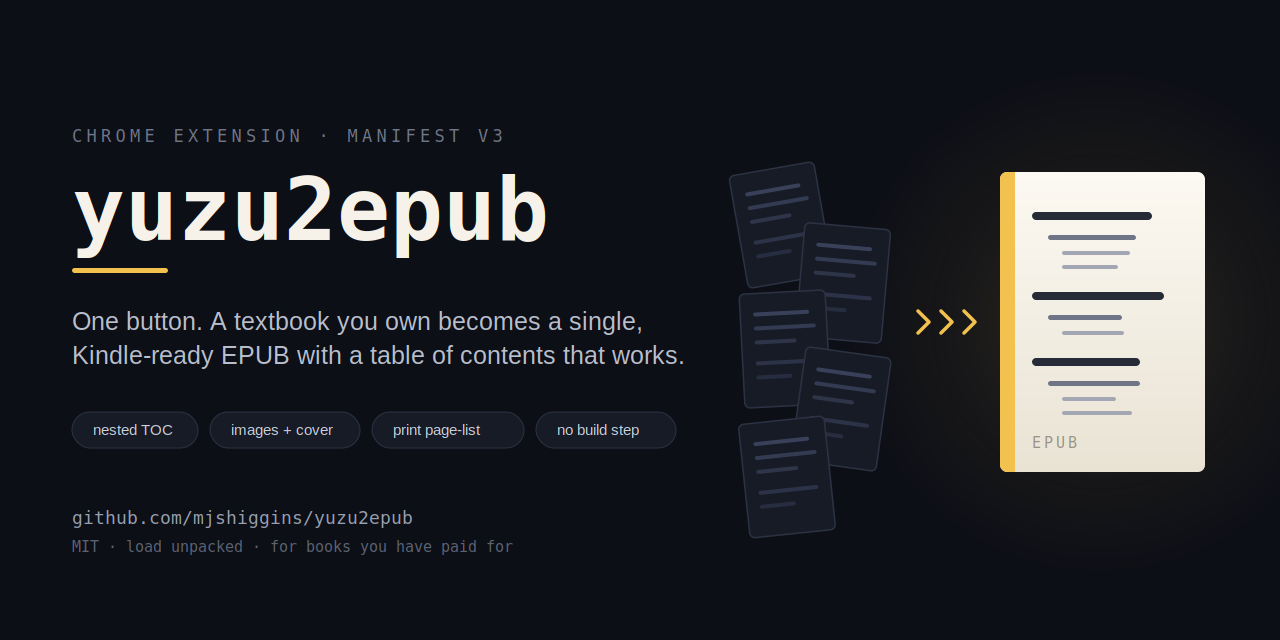
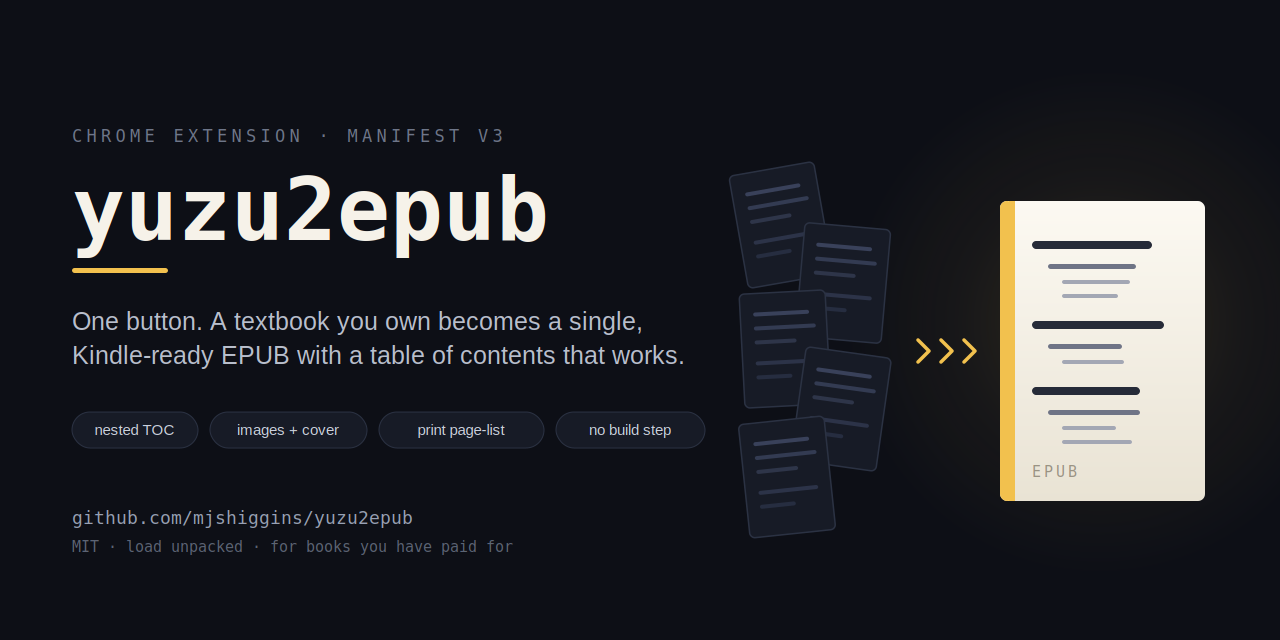
Add social preview and Twitter card; centre the chip labels
Chip text was left-padded at a fixed offset rather than centred, so labels
floated left inside their pills. They now use text-anchor middle against the
pill's own centre, with the pill sized from the label.

Artwork moves into docs/make-header.py so all three layouts share one set of
components instead of drifting apart:

  header.png         1280x640  README banner
  social-preview.png 1280x640  GitHub social preview, bigger type, no chips
  twitter-card.png   1600x900  16:9, the ratio the timeline crops to

The social preview started as a centred stack, which left dead space down
both sides because the graphic is close to square and the canvas is 2:1. It
keeps the two-column composition and drops the detail that disappears at
unfurl size. The Twitter card's text column sat high and left a dead band
along the bottom; it is now vertically balanced against the graphic.

Claude-Session: https://claude.ai/code/session_01FEEVT7bXUhq8pnMSMitG9i

diff --git a/docs/make-header.py b/docs/make-header.py
@@ -1,0 +1,197 @@
+#!/usr/bin/env python3
+"""Generate the project's header artwork.
+
+One set of components, three layouts:
+  header.png         1280x640  README banner, text beside the graphic
+  social-preview.png 1280x640  GitHub social preview, centred and larger type
+  twitter-card.png   1600x900  16:9 for an in-post image
+
+All artwork here is original geometry: scattered source fragments resolving
+into one bound book whose table of contents is visibly nested.
+
+    python3 docs/make-header.py
+"""
+import cairosvg
+
+INK = "#0d0f16"
+PAPER = "#f6f2e9"
+ACCENT = "#f2c14e"
+MUTED = "#6e7689"
+BODY = "#b9bfcd"
+CHIP_BG = "#171b26"
+CHIP_LINE = "#2b3243"
+MONO = "DejaVu Sans Mono, monospace"
+SANS = "Liberation Sans, DejaVu Sans, sans-serif"
+
+# The graphic is drawn in a local 467x366 box, then translated and scaled.
+GW, GH = 467, 366
+
+DEFS = f"""
+  <defs>
+    <radialGradient id="glow" cx="50%" cy="50%" r="50%">
+      <stop offset="0%" stop-color="{ACCENT}" stop-opacity="0.15"/>
+      <stop offset="55%" stop-color="{ACCENT}" stop-opacity="0.05"/>
+      <stop offset="100%" stop-color="{ACCENT}" stop-opacity="0"/>
+    </radialGradient>
+    <linearGradient id="paper" x1="0" y1="0" x2="0" y2="1">
+      <stop offset="0%" stop-color="#fcf9f2"/>
+      <stop offset="100%" stop-color="#e9e3d4"/>
+    </linearGradient>
+    <g id="frag">
+      <rect width="86" height="114" rx="5" fill="{CHIP_BG}" stroke="{CHIP_LINE}" stroke-width="1.5"/>
+      <rect x="13" y="19" width="56" height="4" rx="2" fill="#39415a"/>
+      <rect x="13" y="33" width="62" height="4" rx="2" fill="#333b52"/>
+      <rect x="13" y="47" width="42" height="4" rx="2" fill="#2e3549"/>
+      <rect x="13" y="68" width="60" height="4" rx="2" fill="#2c3348"/>
+      <rect x="13" y="82" width="36" height="4" rx="2" fill="#262d40"/>
+    </g>
+    <g id="chev">
+      <path d="M0,-11 L11,0 L0,11" fill="none" stroke="{ACCENT}" stroke-width="3.5"
+            stroke-linecap="round" stroke-linejoin="round"/>
+    </g>
+  </defs>"""
+
+
+def graphic(tx, ty, scale=1.0):
+    """Fragments, chevrons and the assembled book, in one transformable group."""
+    bx, by = 262, 33          # book origin inside the local box
+    return f"""
+  <g transform="translate({tx},{ty}) scale({scale})">
+    <use href="#frag" transform="translate(0,0) rotate(-10,43,57)"/>
+    <use href="#frag" transform="translate(62,58) rotate(5,43,57)"/>
+    <use href="#frag" transform="translate(4,124) rotate(-3,43,57)"/>
+    <use href="#frag" transform="translate(60,184) rotate(8,43,57)"/>
+    <use href="#frag" transform="translate(6,252) rotate(-6,43,57)"/>
+
+    <g transform="translate(0,183)">
+      <use href="#chev" transform="translate(180,0)" opacity="0.3"/>
+      <use href="#chev" transform="translate(203,0)" opacity="0.62"/>
+      <use href="#chev" transform="translate(226,0)"/>
+    </g>
+
+    <rect x="{bx}" y="{by}" width="205" height="300" rx="7" fill="url(#paper)"/>
+    <rect x="{bx}" y="{by}" width="14" height="300" rx="7" fill="{ACCENT}"/>
+    <rect x="{bx + 9}" y="{by}" width="6" height="300" fill="{ACCENT}"/>
+
+    <rect x="{bx + 32}" y="{by + 40}"  width="120" height="8" rx="4" fill="#262b38"/>
+    <rect x="{bx + 48}" y="{by + 63}"  width="88"  height="5" rx="2.5" fill="#6f7486"/>
+    <rect x="{bx + 62}" y="{by + 79}"  width="68"  height="4" rx="2" fill="#a3a7b4"/>
+    <rect x="{bx + 62}" y="{by + 93}"  width="56"  height="4" rx="2" fill="#a3a7b4"/>
+    <rect x="{bx + 32}" y="{by + 120}" width="132" height="8" rx="4" fill="#262b38"/>
+    <rect x="{bx + 48}" y="{by + 143}" width="74"  height="5" rx="2.5" fill="#6f7486"/>
+    <rect x="{bx + 62}" y="{by + 159}" width="62"  height="4" rx="2" fill="#a3a7b4"/>
+    <rect x="{bx + 32}" y="{by + 186}" width="108" height="8" rx="4" fill="#262b38"/>
+    <rect x="{bx + 48}" y="{by + 209}" width="92"  height="5" rx="2.5" fill="#6f7486"/>
+    <rect x="{bx + 62}" y="{by + 225}" width="54"  height="4" rx="2" fill="#a3a7b4"/>
+    <rect x="{bx + 62}" y="{by + 239}" width="70"  height="4" rx="2" fill="#a3a7b4"/>
+    <text x="{bx + 32}" y="{by + 276}" font-family="{MONO}" font-size="15"
+          letter-spacing="3" fill="#9a9384">EPUB</text>
+  </g>"""
+
+
+def chips(labels, x, y, fs=15, gap=12):
+    """Pill row. Text is centred on each pill rather than left-padded."""
+    out, cx = [], x
+    for label in labels:
+        w = round(len(label) * fs * 0.52) + 48
+        h = round(fs * 2.4)
+        out.append(
+            f'    <rect x="{cx}" y="{y}" width="{w}" height="{h}" rx="{h/2}" '
+            f'fill="{CHIP_BG}" stroke="{CHIP_LINE}"/>\n'
+            f'    <text x="{cx + w/2}" y="{y + h/2}" text-anchor="middle" '
+            f'dominant-baseline="central" font-family="{SANS}" font-size="{fs}" '
+            f'fill="#cbd1dd">{label}</text>'
+        )
+        cx += w + gap
+    return "\n".join(out), cx - gap - x
+
+
+CHIPS = ["nested TOC", "images + cover", "print page-list", "no build step"]
+
+
+def banner(w=1280, h=640):
+    rows, _ = chips(CHIPS, 72, 412)
+    return f"""<svg xmlns="http://www.w3.org/2000/svg" width="{w}" height="{h}" viewBox="0 0 {w} {h}">
+{DEFS}
+  <rect width="{w}" height="{h}" fill="{INK}"/>
+  <circle cx="1100" cy="322" r="255" fill="url(#glow)"/>
+{graphic(738, 168, 1.0)}
+  <text x="72" y="142" font-family="{MONO}" font-size="17" letter-spacing="4.5"
+        fill="{MUTED}">CHROME EXTENSION · MANIFEST V3</text>
+  <text x="72" y="240" font-family="{MONO}" font-size="88" font-weight="bold"
+        fill="{PAPER}">yuzu2epub</text>
+  <rect x="72" y="268" width="96" height="5" rx="2.5" fill="{ACCENT}"/>
+  <text x="72" y="330" font-family="{SANS}" font-size="25" fill="{BODY}">One button. A textbook you own becomes a single,</text>
+  <text x="72" y="364" font-family="{SANS}" font-size="25" fill="{BODY}">Kindle-ready EPUB with a table of contents that works.</text>
+{rows}
+  <text x="72" y="524" font-family="{MONO}" font-size="18" fill="#98a1b4">github.com/mjshiggins/yuzu2epub</text>
+  <text x="72" y="552" font-family="{MONO}" font-size="15" fill="#5c6474">MIT · load unpacked · for books you have paid for</text>
+</svg>"""
+
+
+def social(w=1280, h=640):
+    """GitHub social preview. Shown small in link unfurls, so this drops the
+    detail that disappears at that size and leans on bigger type. Centring the
+    graphic instead left dead space down both sides, so it keeps the two-column
+    composition."""
+    gx, gy = w - 80 - GW, (h - GH) / 2
+    return f"""<svg xmlns="http://www.w3.org/2000/svg" width="{w}" height="{h}" viewBox="0 0 {w} {h}">
+{DEFS}
+  <rect width="{w}" height="{h}" fill="{INK}"/>
+  <circle cx="{gx + GW * 0.72}" cy="{h/2}" r="270" fill="url(#glow)"/>
+{graphic(gx, gy, 1.0)}
+  <text x="80" y="170" font-family="{MONO}" font-size="18" letter-spacing="5"
+        fill="{MUTED}">CHROME EXTENSION · MANIFEST V3</text>
+  <text x="80" y="280" font-family="{MONO}" font-size="96" font-weight="bold"
+        fill="{PAPER}">yuzu2epub</text>
+  <rect x="80" y="312" width="110" height="6" rx="3" fill="{ACCENT}"/>
+  <text x="80" y="374" font-family="{SANS}" font-size="28" fill="{BODY}">A textbook you own, as one</text>
+  <text x="80" y="414" font-family="{SANS}" font-size="28" fill="{BODY}">Kindle-ready EPUB.</text>
+  <text x="80" y="492" font-family="{MONO}" font-size="19" fill="#98a1b4">github.com/mjshiggins/yuzu2epub</text>
+</svg>"""
+
+
+def twitter(w=1600, h=900):
+    """16:9 for an in-post image, which is the ratio the timeline crops to."""
+    fs = 18
+    rows, _ = chips(CHIPS, 90, 542, fs=fs, gap=14)
+    scale = 1.12
+    gx = w - 90 - GW * scale
+    gy = (h - GH * scale) / 2
+    return f"""<svg xmlns="http://www.w3.org/2000/svg" width="{w}" height="{h}" viewBox="0 0 {w} {h}">
+{DEFS}
+  <rect width="{w}" height="{h}" fill="{INK}"/>
+  <circle cx="{gx + GW * scale * 0.72}" cy="{h/2}" r="320" fill="url(#glow)"/>
+{graphic(gx, gy, scale)}
+  <text x="90" y="230" font-family="{MONO}" font-size="21" letter-spacing="5.5"
+        fill="{MUTED}">CHROME EXTENSION · MANIFEST V3</text>
+  <text x="90" y="350" font-family="{MONO}" font-size="112" font-weight="bold"
+        fill="{PAPER}">yuzu2epub</text>
+  <rect x="90" y="386" width="120" height="6" rx="3" fill="{ACCENT}"/>
+  <text x="90" y="454" font-family="{SANS}" font-size="31" fill="{BODY}">One button. A textbook you own becomes a</text>
+  <text x="90" y="496" font-family="{SANS}" font-size="31" fill="{BODY}">single, Kindle-ready EPUB.</text>
+{rows}
+  <text x="90" y="650" font-family="{MONO}" font-size="23" fill="#98a1b4">github.com/mjshiggins/yuzu2epub</text>
+  <text x="90" y="684" font-family="{MONO}" font-size="18" fill="#5c6474">MIT · load unpacked · for books you have paid for</text>
+</svg>"""
+
+
+TARGETS = [
+    ("header", banner(), 1280, 640, True),
+    ("social-preview", social(), 1280, 640, False),
+    ("twitter-card", twitter(), 1600, 900, False),
+]
+
+if __name__ == "__main__":
+    import os
+    here = os.path.dirname(os.path.abspath(__file__))
+    for name, svg, w, h, retina in TARGETS:
+        svg_path = os.path.join(here, f"{name}.svg")
+        with open(svg_path, "w", encoding="utf-8") as fh:
+            fh.write(svg)
+        cairosvg.svg2png(url=svg_path, write_to=os.path.join(here, f"{name}.png"),
+                         output_width=w, output_height=h)
+        if retina:
+            cairosvg.svg2png(url=svg_path, write_to=os.path.join(here, f"{name}@2x.png"),
+                             output_width=w * 2, output_height=h * 2)
+        print(f"{name}: {w}x{h}")
